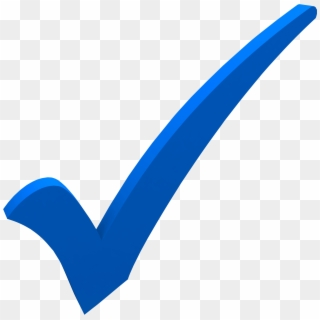
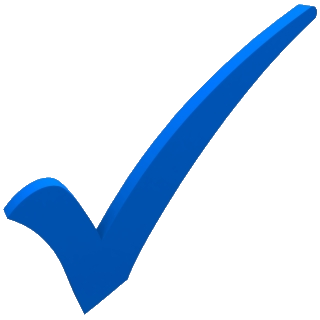
fixes

diff --git a/confirmation.html b/confirmation.html
@@ -56,10 +56,10 @@
         }
 
         .image{
-            width:35%;
+            width:25%;
             position: relative;
             top: 75px;
-            left: 500px;
+            left: 550px;
         }
 
         </style>
@@ -78,9 +78,11 @@
             <div >
                 <img class="image" src="images/checkmark.png"> 
             </div>
-            <div style="font-size:50px;">
+            <div style="font-size:50px; left:550px; top:25px;">
                 Your Appointment is confirmed
             </div>
+
+            <a style="position: relative; font-size: 30px; text-decoration: none;" href="book.html">Click Here To Book Another Appointment</a>
 
         </body>
 </html>
